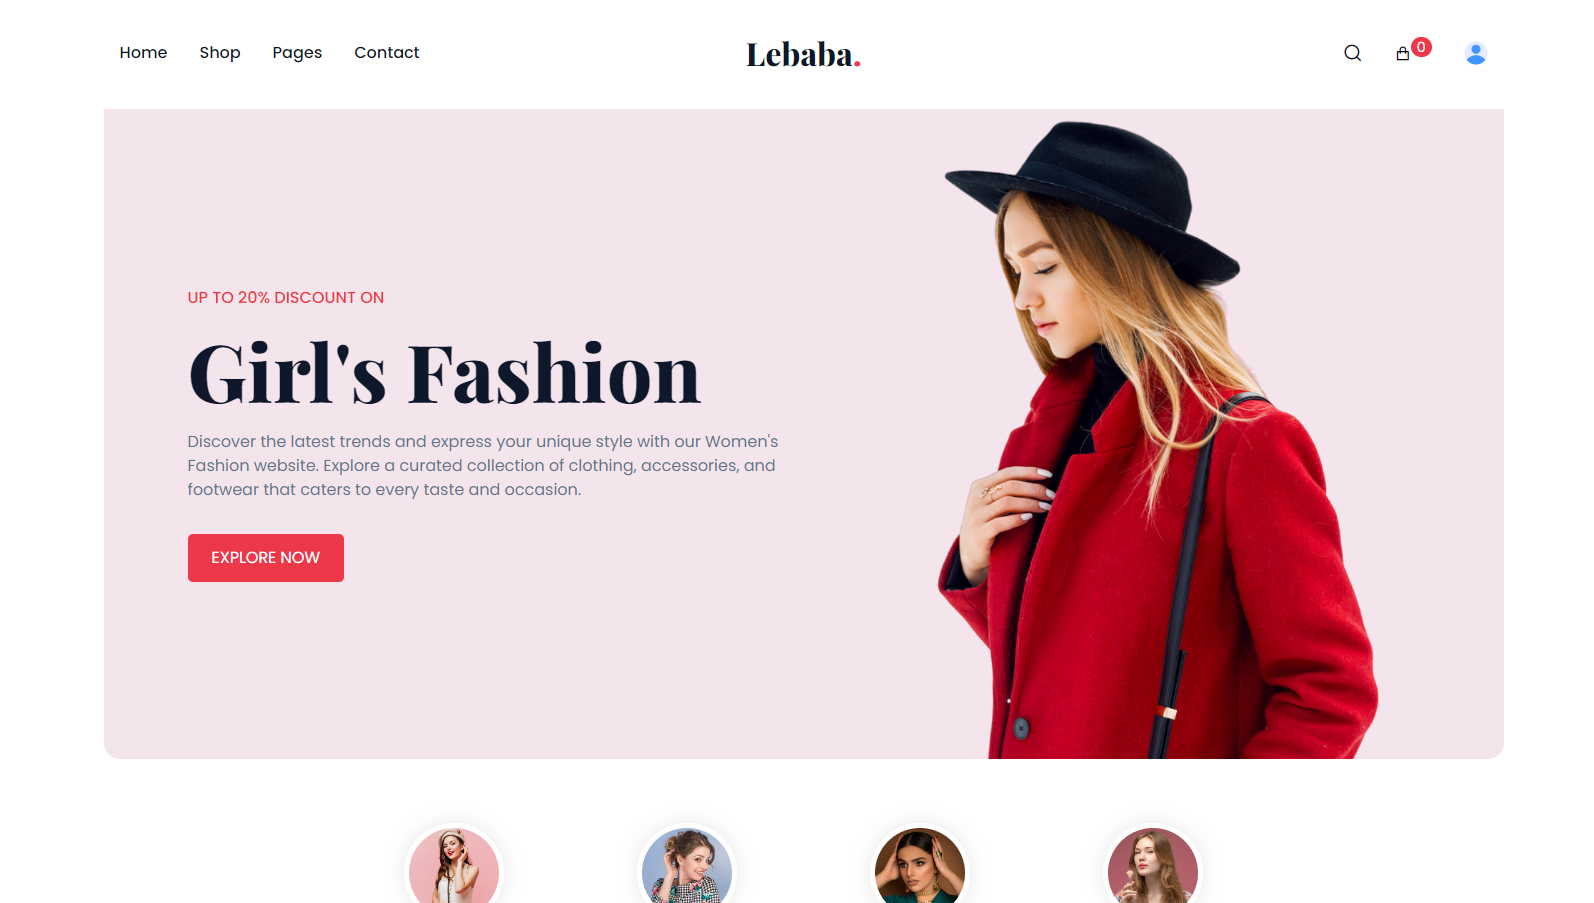
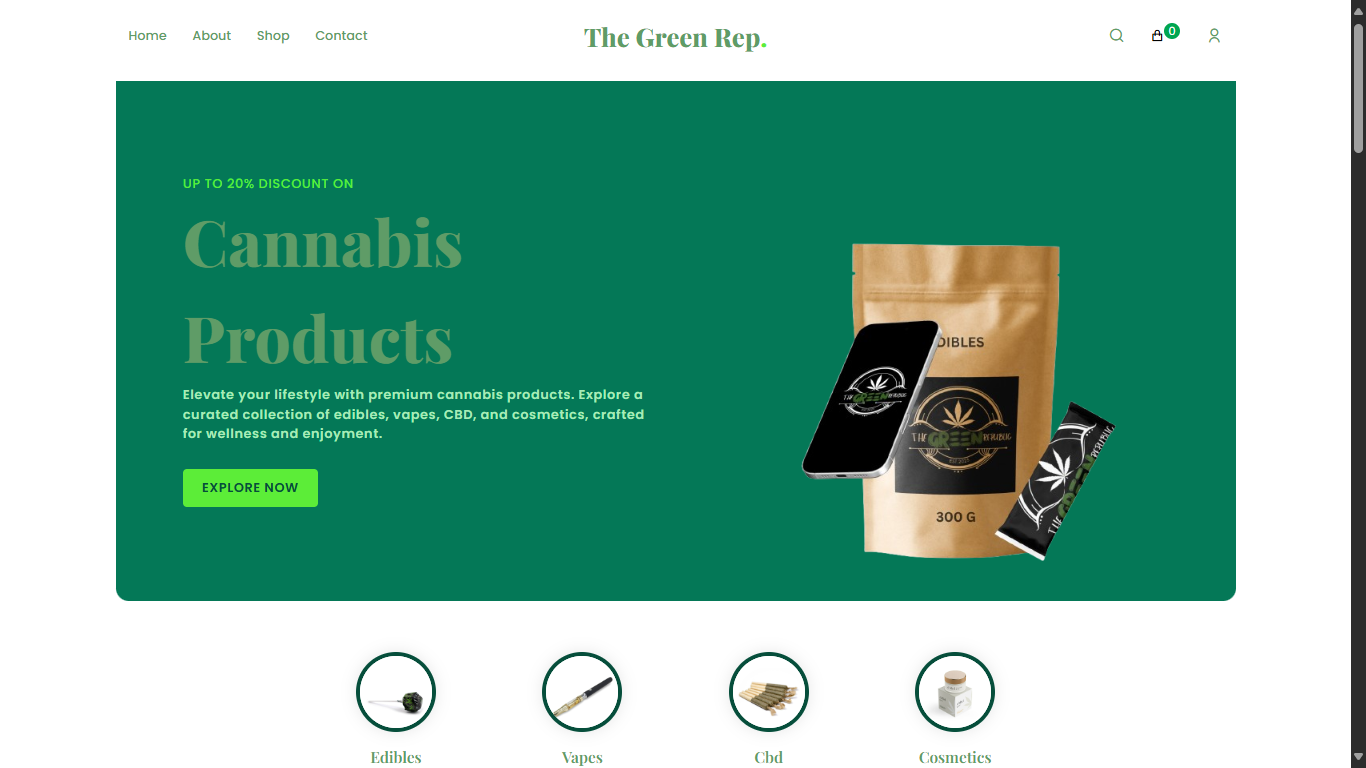
img commit

diff --git a/frontend/src/pages/ShopPage.jsx b/frontend/src/pages/ShopPage.jsx
@@ -1,3 +1,4 @@
+/* eslint-disable no-unused-vars */
 import React, {useEffect, useState} from 'react';
 
 /*import productsData from '../data/products.json';*/
@@ -8,13 +9,13 @@ import {useGetAllProductsQuery} from './../redux/features/products/productAPI.js
 
 
 const filters = {
-   categories: ['all', 'accessories', 'clothing', 'jewelry', 'cosmetics'],
-   colors: ['all', 'beige', 'black', 'brown', 'blue', 'green', 'gold', 'red', 'grey', 'silver'],
+   categories: ['all', 'edibles', 'vapes', 'cbd', 'cosmetics'],
+   colors: ['all', 'beige oracle', 'black widow', 'brown beard', 'blue haze', 'green gold', 'gold lotus', 'red beard', 'grey widow', 'silver gorilla'],
    priceRanges: [
-      {label: 'Under $50', min: 0, max: 50},
-      {label: '$51 - $100', min: 51, max: 100},
-      {label: '$101 - $200', min: 101, max: 200},
-      {label: 'above $200', min: 201, max: Infinity}
+      {label: 'Under R100', min: 0, max: 100},
+      {label: 'R151 - R300', min: 151, max: 300},
+      {label: 'R301 - R800', min: 301, max: 800},
+      {label: 'above R800', min: 801, max: Infinity}
    ]
 };
 
@@ -96,14 +97,14 @@ export default function ShopPage() {
 
    return (
       <>
-         <section className="section__container bg-primary-light">
-            <h2 className="section__header capitalize">Shop Page</h2>
+         <section className="bg-primary-light section__container">
+            <h2 className="capitalize section__header">Shop Page</h2>
             <p className="section__subheader">Discover the Hottest Picks: Elevate
                Your Natural with Our Curated Collection of Trending Cannibis
                Products.</p>
          </section>
          <section className="section__container">
-            <div className="flex flex-col md:flex-row md:gap-12 gap-8">
+            <div className="flex md:flex-row flex-col gap-8 md:gap-12">
                {/* left side */}
                <ShopFilteringComponent
                   filters={filters}
@@ -113,24 +114,24 @@ export default function ShopPage() {
                />
                {/* right side */}
                <div>
-                  <h3 className="font-header text-xl font-semibold tracking-wider mb-4">
+                  <h3 className="mb-4 font-header font-semibold text-xl tracking-wider">
                      {/*{products.length} Available Products*/}
                      Showing {startProduct} to {endProduct} of {totalProducts} Products
                   </h3>
                   <ProductCardsComponent products={products}/>
 
                   {/* pagination controls */}
-                  <div className='mt-6 flex justify-center'>
+                  <div className='flex justify-center mt-6'>
                      <button
                         disabled={currentPage === 1}
                         onClick={() => handlePageChange(currentPage - 1)}
-                        className='px-4 py-2 bg-gray-300 font-semibold capitalize text-gray-700 rounded-md mr-2'>Prev</button>
+                        className='bg-gray-300 mr-2 px-4 py-2 rounded-md font-semibold text-gray-700 capitalize'>Prev</button>
 
                      {
                         [...Array(totalPages)].map((_, index) => (
                            <button key={index}
                                    onClick={() => handlePageChange(index + 1)}
-                                   className={`px-4 py-2 font-semibold ${currentPage === index + 1 ? 'btn' : 'btn-pagination bg-gray-300 text-gray-700 hover:bg-gray-400 hover:text-gray-100'}
+                                   className={`px-4 py-2 font-semibold R{currentPage === index + 1 ? 'btn' : 'btn-pagination bg-gray-300 text-gray-700 hover:bg-gray-400 hover:text-gray-100'}
                                         rounded-md mx-1
                                         `}
                            >{index + 1}</button>
@@ -140,7 +141,7 @@ export default function ShopPage() {
                      <button
                         disabled={currentPage === totalPages}
                         onClick={() => handlePageChange(currentPage + 1)}
-                        className='px-4 py-2 bg-gray-300 font-semibold capitalize text-gray-700 rounded-md ml-2'>next</button>
+                        className='bg-gray-300 ml-2 px-4 py-2 rounded-md font-semibold text-gray-700 capitalize'>next</button>
 
                   </div>
 

diff --git a/frontend/src/sections/DealsSection.jsx b/frontend/src/sections/DealsSection.jsx
@@ -1,24 +1,20 @@
+/* eslint-disable no-unused-vars */
 import React from 'react';
 import dealsImage from '../assets/deals.png';
-
-
 
 export default function DealsSection() {
 
    return (
-      <section className='section__container deals__container'>
+      <section className='deals__container section__container'>
          <div className='deals__image'>
-            <img src={dealsImage} alt="woman model"/>
+            <img src={dealsImage} alt="CBD products deals"/>
          </div>
 
          <div className='deals__content'>
             <h5 className="font-semibold tracking-wider">Get Up To 20% Discount</h5>
-            <h4>Deals Of This Month</h4>
-            <p className="font-semibold tracking-wider">Our Women's Fashion Deals of the Month are here to make your style
-               dreams a reality without breaking the bank. Discover a curated
-               collection of exquisite clothing, accessories, and footwear, all
-               handpicked to elevate your wardrobe.</p>
-            <div className='deals__countdown flex-wrap'>
+            <h4>CBD Deals Of This Month</h4>
+            <p className="font-semibold tracking-wider">Explore this month&lsquo;s exclusive CBD deals, featuring edibles, vapes, and more. Enjoy up to 20% off premium products designed to enhance your wellness routine.</p>
+            <div className='flex-wrap deals__countdown'>
                <div className='deals__countdown__card'>
                   <h4>14</h4>
                   <p>Days</p>
@@ -38,6 +34,5 @@ export default function DealsSection() {
             </div>
          </div>
       </section>
-
    );
 }

diff --git a/frontend/src/sections/HeroSection.jsx b/frontend/src/sections/HeroSection.jsx
@@ -9,27 +9,28 @@ const cards = [
    {
       id: 1,
       image: cardImage1,
-      trend: '2024 Trend',
-      title: 'Women Blouses'
+      trend: '2024 CBD Trend',
+      title: 'CBD Edibles'
    },
    {
       id: 2,
       image: cardImage2,
-      trend: '2024 Trend',
-      title: 'Women Dresses'
+      trend: '2024 CBD Trend',
+      title: 'CBD Vapes'
    },
    {
       id: 3,
       image: cardImage3,
-      trend: '2024 Trend',
-      title: 'Women Casuals'
+      trend: '2024 CBD Trend',
+      title: 'CBD Topicals'
    }
 ]
+
 
 export default function HeroSection() {
 
    return (
-      <section className="section__container hero__container">
+      <section className="hero__container section__container">
          {
             cards.map((card) => (
                <div key={card.id} className='hero__card'>

diff --git a/frontend/src/sections/CategorySection.jsx b/frontend/src/sections/CategorySection.jsx
@@ -11,7 +11,7 @@ export default function CategorySection() {
 
    const categories = [
       {name: 'Edibles', path: 'edibles', image: categoryImage1},
-      {name: 'Vape', path: 'vape', image: categoryImage2},
+      {name: 'Vapes', path: 'vape', image: categoryImage2},
       {name: 'Cbd', path: 'cbd', image: categoryImage3},
       {name: 'Cosmetics', path: 'cosmetics', image: categoryImage4}
    ];
